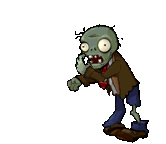
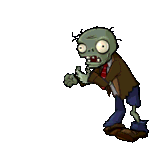
feat : add zombie attack

diff --git a/gameManager.js b/gameManager.js
@@ -33,14 +33,9 @@ export class gameManager {
         this.remainZombie = 0;
         this.spawnPos = [0, 0, 0, 0, 0];
 
-        this.minimumPosOfLinesX = [1600, 1600, 1600, 1600, 1600];
-        this.minimumPosOfLinesIdx = [-1, -1, -1, -1, -1];
         this.zombies = new Array(5);
         for(let i = 0; i < 5; i++) {
             this.zombies[i] = new Array();
-            for(let j = 0; j < 100; j++) {
-                this.zombies[i].push(new stdZombie(0, 0, 0, 0, 0, 0, 0));
-            }
         }
         this.zombiePos;
 
@@ -92,14 +87,9 @@ export class gameManager {
         this.remainZombie = 0;
         this.spawnPos = [0, 0, 0, 0, 0];
 
-        this.minimumPosOfLinesX = [1600, 1600, 1600, 1600, 1600];
-        this.minimumPosOfLinesIdx = [-1, -1, -1, -1, -1];
         this.zombies = new Array(5);
         for(let i = 0; i < 5; i++) {
             this.zombies[i] = new Array();
-            for(let j = 0; j < 100; j++) {
-                this.zombies[i].push(new stdZombie(0, 0, 0, 0, 0, 0, 0));
-            }
         }
         this.zombiePos;
 
@@ -168,10 +158,8 @@ export class gameManager {
                 }
             }
             for (let i = 0; i < 5; i++) {
-                for (let j = 0; j < 100; j++) {
-                    if(this.zombies[i][j].hp > 0) {
-                        this.zombies[i][j].nextFrame();
-                    }
+                for (let j = 0; j < this.zombies[i].length; j++) {
+                    this.zombies[i][j].nextFrame();
                 }
             }
         }
@@ -183,24 +171,36 @@ export class gameManager {
     Description : 움직임과 관련된 함수입니다.
     */
     move() {
+        const interval = [330, 405, 495, 575, 660, 735, 815, 885, 980];
         this.ball.move(this.ctx);
         this.stick.move(this.ctx, this.upPressed - this.downPressed);
         for (let i = 0; i < 5; i++) {
-            this.minimumPosOfLinesIdx[i] = -1;
-            this.minimumPosOfLinesX[i] = 1600;
-            for (let j = 0; j < 100; j++) {
-                if (this.zombies[i][j].hp > 0) {
-                    this.zombies[i][j].move(this.ctx);
-                    this.zombies[i][j].drawHP(this.ctx);
-                    this.zombies[i][j].slowOFF();
+            for (let j = 0; j < this.zombies[i].length; j++) {
+                const zPosS = this.zombies[i][j].x - this.zombies[i][j].width / 2;
+                const zPosE = this.zombies[i][j].x + this.zombies[i][j].width / 2;
 
-                    if (this.zombies[i][j].x < this.minimumPosOfLinesX[i]) {
-                        this.minimumPosOfLinesX[i] = this.zombies[i][j].x;
-                        this.minimumPosOfLinesIdx[i] = j;
-                        if(this.zombies[i][j].isEnd()) {
-                            return 1;
-                        }
+                let idx = -1;
+                for (let k = 0; k < interval.length; k++) {
+                    if(this.plants[i][k].hp > 0 && zPosS <= interval[k] && zPosE >= interval[k]) {
+                        idx = k;
+                        break;
                     }
+                }
+
+                if(idx == -1) {
+                    this.zombies[i][j].move(this.ctx);
+                }
+                else {
+                    if(this.zombies[i][j].attack(this.ctx)) {
+                        this.plants[i][idx].hp -= this.zombies[i][j].dmg;
+                        this.plants[i][idx].timer_HP = 100;
+                    }
+                }
+                this.zombies[i][j].drawHP(this.ctx);
+                this.zombies[i][j].slowOFF();
+
+                if(this.zombies[i][j].isEnd()) {
+                    return 1;
                 }
             }
         }
@@ -208,26 +208,37 @@ export class gameManager {
             for(let j = 0; j < 9; j++) {
                 if(this.plants[i][j].hp > 0) {
                     this.plants[i][j].draw(this.ctx);
+                    this.plants[i][j].drawHP(this.ctx);
                     if(this.plants[i][j].ball.length == 0) continue;
 
                     let removeIdx = new Array();
                     for(let k in this.plants[i][j].ball) {
                         this.plants[i][j].ball[k].x += this.plants[i][j].ball[k].speed;
                         this.plants[i][j].ball[k].draw(this.ctx);
-                        if(this.minimumPosOfLinesIdx[i] == -1) continue;
                         if(this.plants[i][j].ball[k].x >= 1400) {
                             removeIdx.push(k);
                             continue;
                         }
-                        if(this.plants[i][j].ball[k].x + this.plants[i][j].ball[k].img.width >= this.zombies[i][this.minimumPosOfLinesIdx[i]].x) {
-                            if(this.plants[i][j] instanceof Snowpea) {
-                                this.zombies[i][this.minimumPosOfLinesIdx[i]].slowON();
+                        
+                        let flag = 0;
+                        for(let l = 0; l < this.zombies[i].length; l++) {
+                            const atkPosS = this.plants[i][j].ball[k].x - this.plants[i][j].ball[k].img.width / 2;
+                            const atkPosE = this.plants[i][j].ball[k].x + this.plants[i][j].ball[k].img.width / 2;
+                            const zPosS = this.zombies[i][l].x - this.zombies[i][l].width / 2;
+                            const zPosE = this.zombies[i][l].x + this.zombies[i][l].width / 2;
+
+                            if(atkPosE >= zPosS && atkPosS <= zPosE) {
+                                if(this.plants[i][j] instanceof Peashooter) {
+                                    this.zombies[i][l].knockback();
+                                }
+                                else if(this.plants[i][j] instanceof Snowpea) {
+                                    this.zombies[i][l].slowON();
+                                }
+                                flag = 1;
                             }
-                            else if(this.plants[i][j] instanceof Peashooter) {
-                                this.zombies[i][this.minimumPosOfLinesIdx[i]].knockback();
-                            }
+                        }
+                        if(flag == 1) {
                             removeIdx.push(k);
-                            continue;
                         }
                     }
                     for(let k = removeIdx.length - 1; k >= 0; k--) {
@@ -243,7 +254,7 @@ export class gameManager {
         this.ball.draw(this.ctx);
         this.stick.draw(this.ctx);
         for (let i = 0; i < 5; i++) {
-            for (let j = 0; j < 100; j++) {
+            for (let j = 0; j < this.zombies[i].length; j++) {
                 if(this.zombies[i][j].hp > 0) {
                     this.zombies[i][j].draw(this.ctx);
                 }
@@ -424,14 +435,8 @@ export class gameManager {
         */
         for(let i = 0; i < 5; i++) {
             if(this.spawnPos[i] == 1) {
-                let zombie = this.randZombie(i);
-                for(let j = 0; j < 100; j++) {
-                    if(this.zombies[i][j].hp <= 0) {
-                        this.zombies[i][j] = zombie;
-                        this.remainZombie += 1;
-                        break;
-                    }
-                }
+                this.zombies[i].push(this.randZombie(i));
+                this.remainZombie += 1;
             }
             this.spawnPos[i] = 0;
         }
@@ -493,7 +498,8 @@ export class gameManager {
             if(this.ball.y + this.ball.r >= range_s[i] && this.ball.y - this.ball.r <= range_e[i]) {
                 // 해당 줄의 좀비들과 충돌 검사
                 let isConflict = false;
-                for(let j = 0; j < 100; j++) {
+                let removeIdx = new Array();
+                for(let j = 0; j < this.zombies[i].length; j++) {
                     if(this.zombies[i][j].hp <= 0) continue;
                     this.zombiePos = {
                         x: this.zombies[i][j].x,
@@ -515,6 +521,7 @@ export class gameManager {
                         this.zombies[i][j].hp -= this.ball.dmg;
                         this.zombies[i][j].timer_HP = 100; // 충돌 시 체력 바
                         if(this.zombies[i][j].hp <= 0) {
+                            removeIdx.push(j);
                             this.remainZombie--;
                             // test call
                             console.log("remain zombies: " + this.remainZombie);
@@ -532,6 +539,9 @@ export class gameManager {
                     }
                 }
                 if(isConflict) {
+                    for(let j = removeIdx.length - 1; j >= 0; j--) {
+                        this.zombies[i].splice(j, 1);
+                    }
                     break;
                 }
             }
@@ -563,14 +573,9 @@ export class gameManager {
             console.log("GOLD + 15");
         }
         else if(e.key == "z") { // 좀비 제거
-            for (let i = 0; i < 5; i++) {
-                for (let j = 0; j < 100; j++) {
-                    if(this.zombies[i][j].hp > 0) {
-                        this.zombies[i][j].hp = 0;
-                        this.remainZombie--;
-                    }
-                }
-            }
+            for (let i = 0; i < 5; i++) 
+                this.zombies[i].length = 0;
+            this.remainZombie = 0;
 
             // test call
             console.log("KILL ALL ZOMBIES");
@@ -585,7 +590,7 @@ export class gameManager {
         }
         else if(e.key == "f") {
             for (let i = 0; i < 5; i++) {
-                for (let j = 0; j < 100; j++) {
+                for (let j = 0; j < this.zombies[i].length; j++) {
                     if(this.zombies[i][j].hp > 0) {
                         if(this.zombies[i][j] instanceof Zombie) {
                             this.zombies[i][j].speed = 5;
@@ -619,7 +624,7 @@ export class gameManager {
         }
         else if(e.key == "f") {
             for (let i = 0; i < 5; i++) {
-                for (let j = 0; j < 100; j++) {
+                for (let j = 0; j < this.zombies[i].length; j++) {
                     if(this.zombies[i][j].hp > 0) {
                         if(this.zombies[i][j] instanceof Zombie) {
                             this.zombies[i][j].speed = 0.5;
@@ -649,13 +654,13 @@ export class gameManager {
             console.log(this.addPlantX + " " + this.addPlantY);
             if(this.plants[this.addPlantY][this.addPlantX].hp > 0) return;
             if(this.buyStatus == plantsName[0]) {
-                this.plants[this.addPlantY][this.addPlantX] = new Peashooter(this.addPlantX * 83 + 291.5, this.addPlantY * 100 + 107.5, 5, 0);
+                this.plants[this.addPlantY][this.addPlantX] = new Peashooter(this.addPlantX * 83 + 291.5, this.addPlantY * 100 + 107.5, 20, 0);
             }
             else if(this.buyStatus == plantsName[1]) {
-                this.plants[this.addPlantY][this.addPlantX] = new Snowpea(this.addPlantX * 83 + 291.5, this.addPlantY * 100 + 107.5, 10, 0);
+                this.plants[this.addPlantY][this.addPlantX] = new Snowpea(this.addPlantX * 83 + 291.5, this.addPlantY * 100 + 107.5, 30, 0);
             }
             else if(this.buyStatus == plantsName[2]) {
-                this.plants[this.addPlantY][this.addPlantX] = new Wallnut(this.addPlantX * 83 + 291.5, this.addPlantY * 100 + 107.5, 5, 0);
+                this.plants[this.addPlantY][this.addPlantX] = new Wallnut(this.addPlantX * 83 + 291.5, this.addPlantY * 100 + 107.5, 100, 0);
             }
             this.buyStatus = 0;
             document.removeEventListener("mousemove", this.buyEvent);

diff --git a/zombie.js b/zombie.js
@@ -25,6 +25,11 @@ export class stdZombie {
         for (let i = 0; i < 7; i++) {
             this.img.push(new Image());
         }
+
+        this.img_atk = new Array();
+        for (let i = 0; i < 7; i++) {
+            this.img_atk.push(new Image());
+        }
         this.shadow = new Image();
         this.shadow.src = "./images/Zombie/zombieshadow.png";
         this.frame = 0;
@@ -34,13 +39,19 @@ export class stdZombie {
     Date : 2023-05-13
     Description : 좀비(벽돌)를 움직이는 함수입니다.
 
-    식물이 있다면 움직이지 않고 move()가 아닌 attack()을 실행합니다.
+    식물이 있다면 움직이지 않고 move()가 아닌 attack을 실행합니다.
     */
     move(ctx) {
         this.x -= this.speed * this.slow;
         this.draw(ctx);
     }
 
+    attack(ctx) {
+        this.drawAtk(ctx);
+        if(this.frame == 6) 
+            return 1;
+        return 0;
+    }
     /*
     Author : 윤찬규 
     Date : 2023-05-13
@@ -54,6 +65,15 @@ export class stdZombie {
         const fixH = Math.floor(this.img[this.frame].height * 0.8);
         ctx.drawImage(this.shadow, this.x, this.y + 30);
         ctx.drawImage(this.img[this.frame], this.x - fixW / 2, this.y - fixH / 2, fixW, fixH);
+        ctx.closePath();
+    }
+
+    drawAtk(ctx) {
+        ctx.beginPath();
+        const fixW = Math.floor(this.img_atk[this.frame].width * 0.8);
+        const fixH = Math.floor(this.img_atk[this.frame].height * 0.8);
+        ctx.drawImage(this.shadow, this.x, this.y + 30);
+        ctx.drawImage(this.img_atk[this.frame], this.x - fixW / 2, this.y - fixH / 2, fixW, fixH);
         ctx.closePath();
     }
 
@@ -114,7 +134,7 @@ export class stdZombie {
 
     slowOFF() {
         if(this.timer_slow == 0) return;
-        else if(this.timer_slow++ > 100) {
+        else if(this.timer_slow++ > 500) {
             this.slow = 1;
             this.timer_slow = 0;
         }
@@ -134,6 +154,7 @@ export class Zombie extends stdZombie {
     #setImage() {
         for (let i = 0; i < 7; i++) {
             this.img[i].src = "./images/Zombie/Zombie/Zombie_" + i + ".png";
+            this.img_atk[i].src = "./images/Zombie/ZombieAttack/ZombieAttack_" + i + ".png";
         }
     }
 }
@@ -147,6 +168,7 @@ export class ConeheadZombie extends stdZombie {
     #setImage() {
         for (let i = 0; i < 7; i++) {
             this.img[i].src = "./images/Zombie/ConeheadZombie/ConeheadZombie_" + i + ".png";
+            this.img_atk[i].src = "./images/Zombie/ZombieAttack/ZombieAttack_" + i + ".png";
         }
     }
 }
@@ -161,6 +183,7 @@ export class BucketheadZombie extends stdZombie {
     #setImage() {
         for (let i = 0; i < 7; i++) {
             this.img[i].src = "./images/Zombie/BucketheadZombie/BucketheadZombie_" + i + ".png";
+            this.img_atk[i].src = "./images/Zombie/ZombieAttack/ZombieAttack_" + i + ".png";
         }
     }
 }

diff --git a/plant.js b/plant.js
@@ -10,6 +10,7 @@ export class Plant {
         this.x = x;
         this.y = y;
         this.hp = hp;
+        this.fullhp = hp;
         this.dmg = dmg;
 
         this.img = new Array();
@@ -20,6 +21,8 @@ export class Plant {
         this.shadow.src = "./images/Plants/plantshadow.png";
         this.frame = 0;
 
+        this.timer_HP = 0;
+
         this.ball = new Array();
     }
 
@@ -29,7 +32,20 @@ export class Plant {
         ctx.drawImage(this.img[this.frame], this.x - this.img[this.frame].width / 2, this.y - this.img[this.frame].height / 2);
         ctx.closePath();
     }
-    
+
+    drawHP(ctx) {
+        if(this.timer_HP <= 0) return;
+        ctx.beginPath();
+        ctx.lineWidth = 3;
+        ctx.strokeStyle = "black";
+        ctx.strokeRect(this.x - this.img[this.frame].width / 2, this.y - this.img[this.frame].height / 2 - 15, this.img[this.frame].width, 10);
+        ctx.fillStyle = "red";
+        ctx.rect(this.x - this.img[this.frame].width / 2, this.y - this.img[this.frame].height / 2 - 15, this.img[this.frame].width *  (this.hp / this.fullhp), 10);
+        ctx.fill();
+        ctx.closePath();
+        this.timer_HP--;
+    }
+
     damaged(dmg) {
         this.hp -= dmg;
     }
